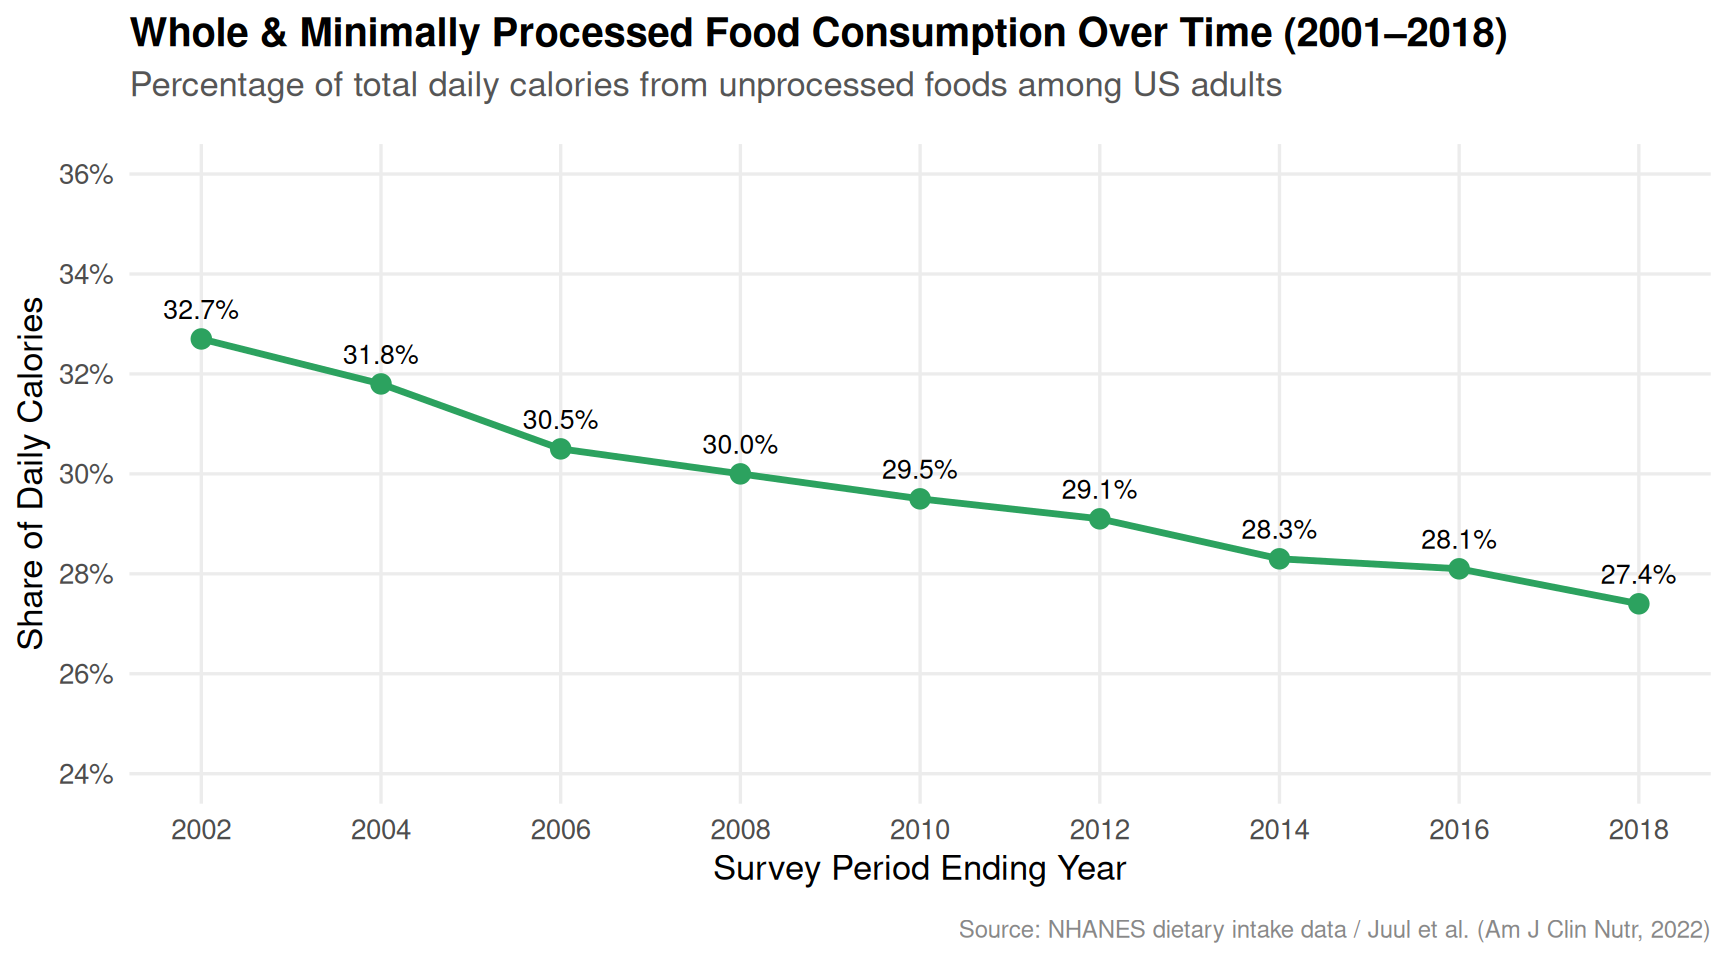
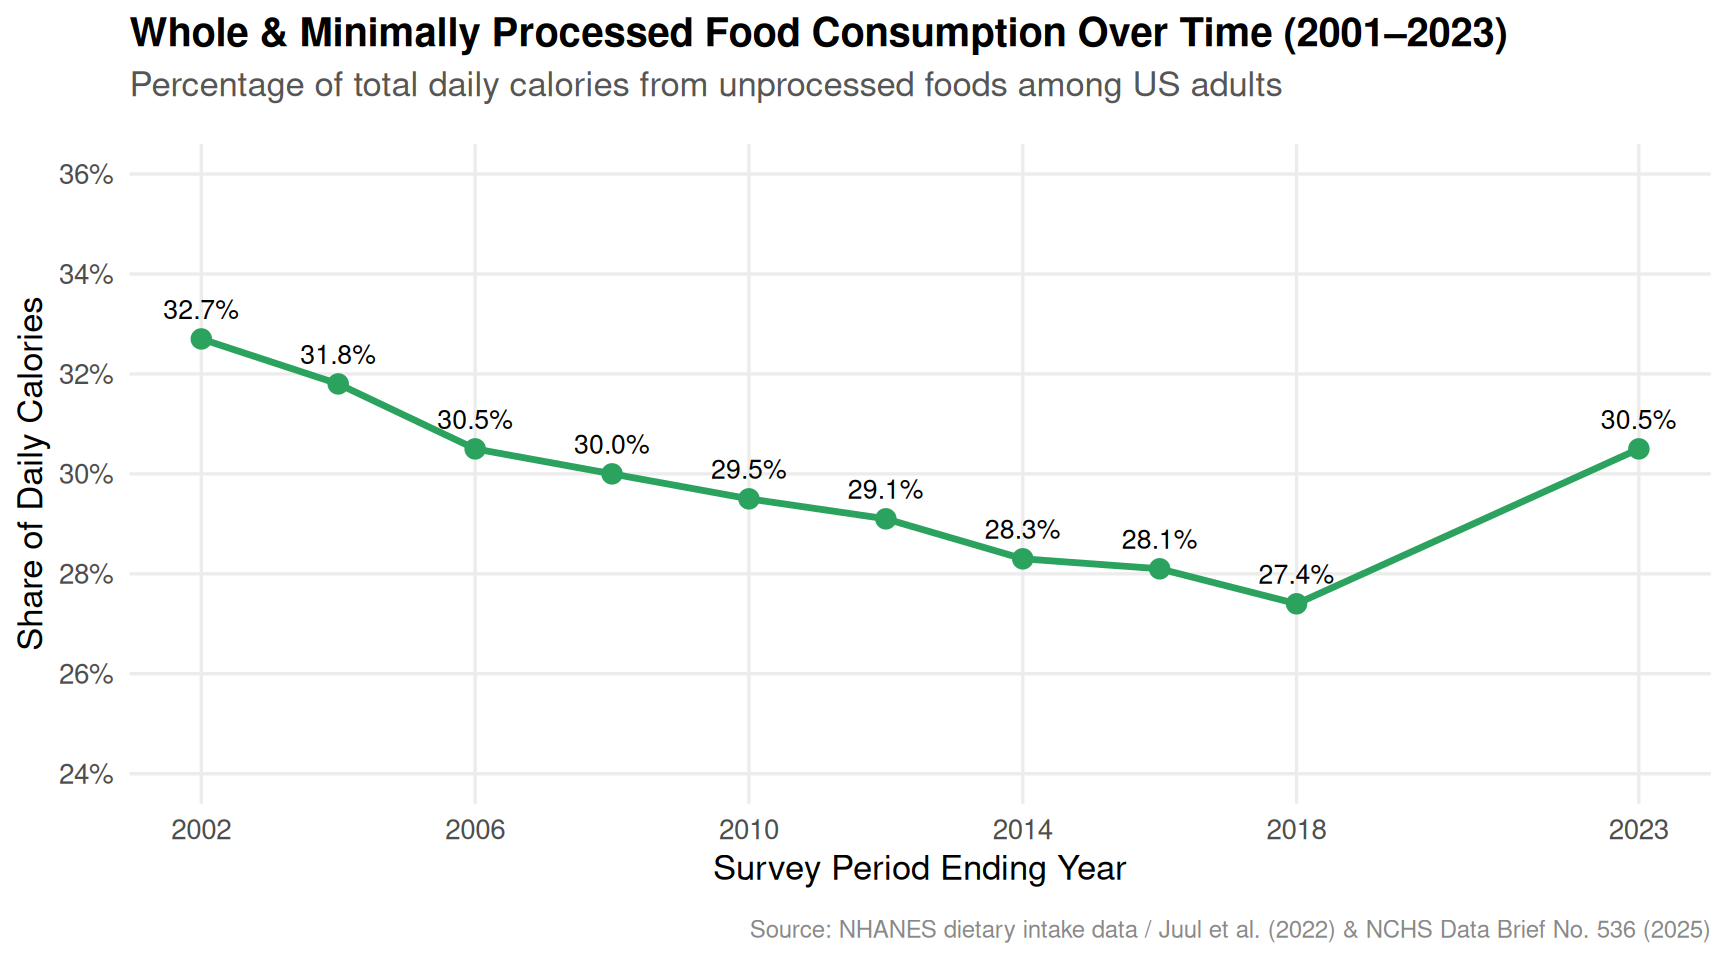
2023 data

diff --git a/_site/food.html b/_site/food.html
@@ -163,8 +163,8 @@ ul.task-list li input[type="checkbox"] {
 </div>
 </div>
 <ul>
-<li><strong>Opposing Trends:</strong> As ultra-processed foods rose from 53.5% to 57.0% of daily calories, whole and minimally processed foods fell from 32.7% to 27.4% over the same 2001–2018 period.</li>
-<li><strong>Dietary Replacement:</strong> The drop in whole foods (primarily fresh meat, dairy, and produce) reflects a steady shift toward industrial, ready-to-eat products in the American diet.</li>
+<li><strong>Opposing Trends:</strong> As ultra-processed foods rose from 53.5% in 2001–2002 to 57.0% in 2017–2018, whole and minimally processed foods fell from 32.7% to 27.4%.</li>
+<li><strong>Recent Shift:</strong> In the August 2021–August 2023 survey cycle, ultra-processed food intake dropped to 53.0%, while whole and minimally processed calories rose back to approximately 30.5%.</li>
 </ul>
 
 

diff --git a/_site/health-food.html b/_site/health-food.html
@@ -184,8 +184,8 @@ ul.task-list li input[type="checkbox"] {
 </div>
 </div>
 <ul>
-<li><strong>Opposing Trends:</strong> As ultra-processed foods rose from 53.5% to 57.0% of daily calories, whole and minimally processed foods fell from 32.7% to 27.4% over the same 2001–2018 period.</li>
-<li><strong>Dietary Replacement:</strong> The drop in whole foods (primarily fresh meat, dairy, and produce) reflects a steady shift toward industrial, ready-to-eat products in the American diet.</li>
+<li><strong>Opposing Trends:</strong> As ultra-processed foods rose from 53.5% in 2001–2002 to 57.0% in 2017–2018, whole and minimally processed foods fell from 32.7% to 27.4%.</li>
+<li><strong>Recent Shift:</strong> In the August 2021–August 2023 survey cycle, ultra-processed food intake dropped to 53.0%, while whole and minimally processed calories rose back to approximately 30.5%.</li>
 </ul>
 
 

diff --git a/_site/index.html b/_site/index.html
@@ -198,8 +198,8 @@ ul.task-list li input[type="checkbox"] {
 </div>
 </div>
 <ul>
-<li><strong>Opposing Trends:</strong> As ultra-processed foods rose from 53.5% to 57.0% of daily calories, whole and minimally processed foods fell from 32.7% to 27.4% over the same 2001–2018 period.</li>
-<li><strong>Dietary Replacement:</strong> The drop in whole foods (primarily fresh meat, dairy, and produce) reflects a steady shift toward industrial, ready-to-eat products in the American diet.</li>
+<li><strong>Opposing Trends:</strong> As ultra-processed foods rose from 53.5% in 2001–2002 to 57.0% in 2017–2018, whole and minimally processed foods fell from 32.7% to 27.4%.</li>
+<li><strong>Recent Shift:</strong> In the August 2021–August 2023 survey cycle, ultra-processed food intake dropped to 53.0%, while whole and minimally processed calories rose back to approximately 30.5%.</li>
 </ul>
 
 
